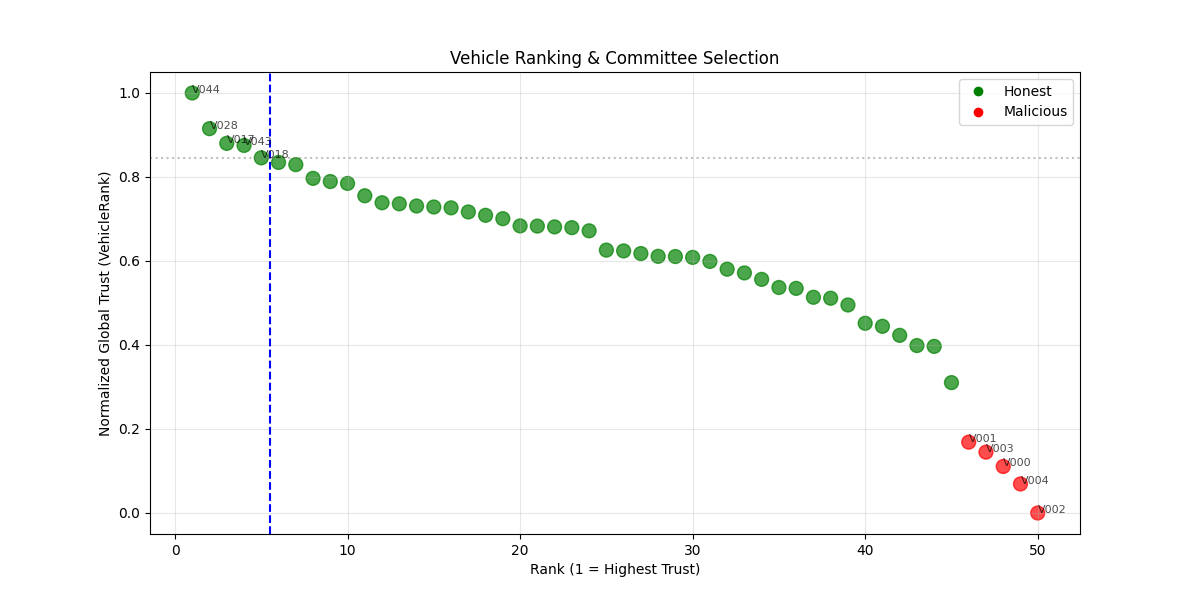
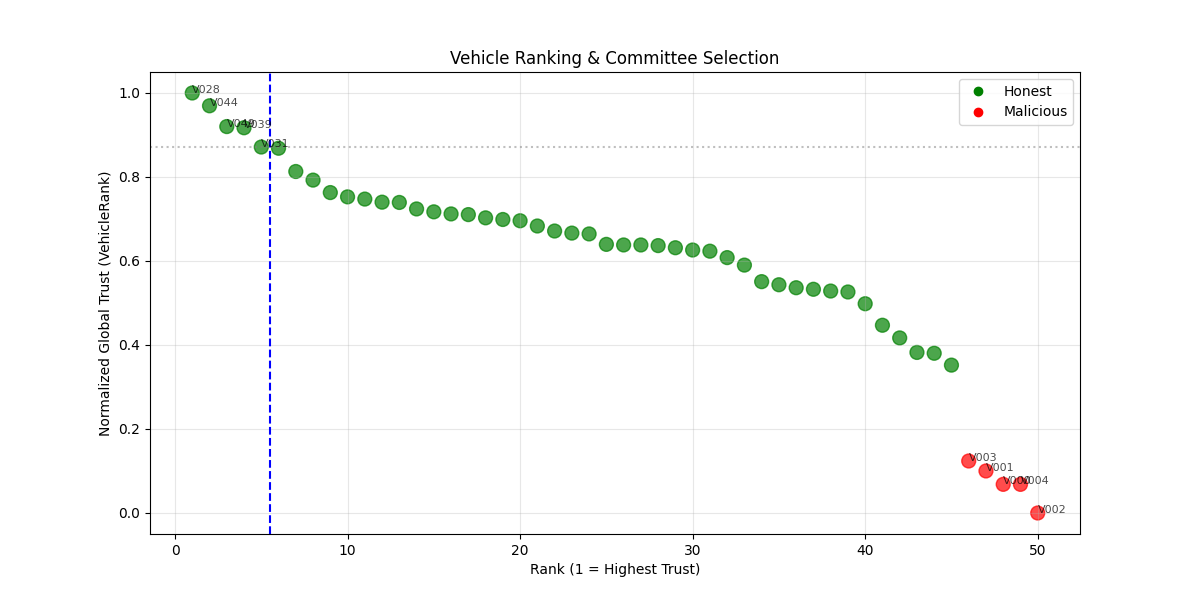
Update documentation and enhance adversary behavior descriptions; refine trust aggregation details and clarify reproducibility aspects in implementation.

diff --git a/docs/TECHNICAL_IMPLEMENTATION_DETAILS.md b/docs/TECHNICAL_IMPLEMENTATION_DETAILS.md
@@ -40,7 +40,7 @@ Key runtime objects (long-lived across the simulation run):
 ### 0.3. Determinism vs Randomness
 
 - The trust computations (Beta update, VehicleRank matrix math, weighted voting check) are deterministic given the same interaction outcomes.
-- Interaction outcomes are stochastic (Python `random`), and **there is no global seed set by default**. Reproducible runs require calling `random.seed(...)` (and `numpy.random.seed(...)` if extended) in the driver.
+- Interaction outcomes are stochastic (Python `random`). For the paper/plot pipeline, `experiments/benchmark.py` sets deterministic seeds (`random.seed(seed)` and `numpy.random.seed(seed)`, default `seed=42`). Ad-hoc runs that bypass the benchmark may remain unseeded unless the driver explicitly sets seeds.
 
 ### 0.4. Scope Notes (Intended Simplifications)
 
@@ -140,9 +140,13 @@ self.global_trust_vector = self.strategy.compute_global_trust(self, all_ids, rep
 ```
 
 **Strategies Implemented:**
-1.  **`ProposedStrategy` (ours):** Full VehicleRank (Power Iteration).
-2.  **`BTVRStrategy`:** Uses standard EigenTrust-like averaging or simpler Beta aggregation.
-3.  **`PeerTrustStrategy` (RTM/BSED/COBATS):** Implemented as simple column-wise averaging of reports (Baseline behavior).
+1.  **`ProposedStrategy` (ours):** Bayesian local trust + VehicleRank (PageRank-like power iteration).
+2.  **`PbftStrategy` (baseline):** Trust-agnostic; equal global trust for all nodes (no ranking).
+3.  **`LtPbftStrategy` (baseline):** Bayesian local trust + simple averaging (no graph propagation).
+4.  **`BtvrStrategy` (baseline):** Bayesian local trust + simple averaging.
+5.  **`CobatsStrategy` (baseline, representative/lite):** Bayesian local trust + confidence-weighted averaging (weight ∝ α+β).
+6.  **`BsedStrategy` (baseline, representative/lite):** correctness-rate reports + outlier/credibility down-weighting.
+7.  **`RtmStrategy` (baseline):** smoothed direct reputation updates + simple averaging.
 
 This ensures strict isolation between the "Proposed" math and baseline comparisons.
 
@@ -173,6 +177,7 @@ Defined in `trust/vehicle.py`, the system models three distinct adversary profil
 ### 3.2. Constant Malicious (DoS/Blackhole)
 *   **Behavior:** Cooperates with probability $P_{coop} = 0.20$.
 *   **Strategy:** Consistently drops packets or sends falsified data.
+*   **Additional behavior (misreporting):** Malicious nodes also perform “bad-mouthing” in outgoing trust reports (`Vehicle.get_trust_reports`), i.e., they slander peers by reporting very low trust values (float reports → `0.0`, tuple reports → `(1.0, 100.0)`).
 *   **Detection Signature:** Trust score rapidly converges to $\approx 0.2$.
 
 ### 3.3. Swing Attacker (On-Off / Oscillating)
@@ -180,10 +185,11 @@ Defined in `trust/vehicle.py`, the system models three distinct adversary profil
 *   **Implementation:**
     ```python
     cycle_length = 50
-    phase = (step_count // cycle_length) % 2
+    phase = ((step_count + swing_offset) // cycle_length) % 2
     probability = 0.99 if phase == 0 else 0.10
     ```
-*   **Detection Challenge:** Requires the sliding window or forgetting factor in the RSU aggregation to detect the sudden drop.
+    where `swing_offset` is a per-vehicle random integer so swing attackers do not flip simultaneously.
+*   **Detection Challenge:** In the current code there is **no RSU forgetting factor**; fast detection is supported via local sliding-window re-estimation (`Vehicle.get_windowed_local_trust`) and by the Proposed model’s graph aggregation.
 
 ### 3.4. Behavior Implementation: `Vehicle.perform_action(step_count) -> bool`
 
@@ -254,7 +260,7 @@ Where:
 Each DAG node is a `Block` with fields:
 
 - `id`: first 8 chars of a UUID4 (`str(uuid.uuid4())[:8]`). This is not a cryptographic hash.
-- `timestamp`: `time.time()` (UNIX epoch float).
+- `timestamp`: logical simulation `step` (integer) passed in during block creation for reproducibility (stored in the `timestamp` field).
 - `data`: a payload; typically a snapshot dict `{vehicle_id: global_trust_score}`.
 - `validator_id`: the committee member who created the block.
 - `parents`: list of parent block IDs.
@@ -305,17 +311,17 @@ The `experiments/run_experiment.py` script drives the system through discrete ti
 1.  **Initialization (`TrustModel.__init__`)**:
     *   Instantiates $N$ vehicles.
     *   Assigns behaviors (Honest/Malicious/Swing) based on percent distributions.
-    *   Initializes Adjacency Matrix $M$ with uniform priors.
+    *   Initializes implicit Bayesian priors via default interaction state (effectively $(\alpha,\beta)=(1,1)$ until evidence is observed).
 
 2.  **Interaction Loop (Per Step)**:
     *   **Selection:** Random pairs $(i, j)$ selected (or via SUMO proximity).
     *   **Action:** $j$ performs action (Success/Fail).
     *   **Update:** $i$ updates local $\alpha, \beta$ for $j$.
 
-3.  **Aggregation Phase (`simulation_step % 10 == 0`)**:
+3.  **Aggregation Phase (Per Step)**:
     *   RSU pulls all local trust data.
-    *   Runs **VehicleRank** to compute new Global Trust Vector.
-    *   RSU applies **Forgetting Factor** (decay) to old global scores to allow recovery/punishment.
+    *   Runs the active strategy to compute the new Global Trust Vector (VehicleRank for `PROPOSED`, averaging/weighting for baselines).
+    *   RSU synchronization (if enabled) is done via peer-vector averaging (`incorporate_peer_knowledge`).
     *   Vehicles are re-ranked.
 
 4.  **Consensus Phase**:
@@ -382,7 +388,7 @@ Vehicles store multiple representations depending on `model_type`:
 - `BSED` (behavior score):
     - `interactions[target_id] = (correct_count, total_count)`.
 - `RTM`:
-    - state stored in `rtm_trust[target_id]` as a scalar updated by `trust = (trust + outcome)/2`.
+    - state stored in `rtm_trust[target_id]` as a scalar updated via α-smoothing: `trust_new = α * trust_old + (1-α) * outcome` (α≈0.8 in the current strategy).
 
 In all cases, `interaction_logs[target_id]` stores the raw boolean outcomes over time for analysis and windowed re-estimation.
 
@@ -427,7 +433,7 @@ Simulation drivers now delegate block creation to `ConsensusManager`. This class
 
 ## 7. Experiment Driver (`experiments/run_experiment.py`) — Comparative Study Pipeline
 
-The experiment script contains both single-model simulation and a comparative multi-model evaluation pipeline.
+The primary user entry point is `experiments/run_experiment.py`, but the core loop used for graphs/statistics lives in `experiments/benchmark.py`.
 
 ### 7.1. Core Utilities: `calculate_statistics(...)`
 
@@ -440,7 +446,7 @@ This routine computes printed “Results & Statistics”:
 - **Consensus success rate:** approximated as `len(dags[0].blocks) / total_steps`.
 - **Convergence:** builds a rank matrix and checks when >90% of nodes have rank changes within 5% of N.
 
-### 7.2. Single Run Helper: `run_simulation(model_name, steps, num_vehicles, verbose)`
+### 7.2. Single Run Helper: `run_single_simulation(model_name, ...)`
 
 Per step:
 
@@ -450,12 +456,13 @@ Per step:
 4. Run consensus check:
      - `LT_PBFT`, `COBATS`: uses `check_consensus_simple` (unweighted).
      - Others: uses `check_consensus_weighted`.
-5. If consensus is reached, a block is appended to `dags[0]`:
-     - data payload currently `{}` in this helper.
+5. If consensus is reached, a block is appended to the manager-owned DAG with a trust snapshot payload.
 
-### 7.3. Comparative Study: `run_comparative_study()`
+**Reproducibility note:** `run_single_simulation` seeds `random` and `numpy` (default `seed=42`).
 
-- Models evaluated: `['BTVR', 'BSED', 'RTM', 'COBATS', 'LT_PBFT', 'PROPOSED']`.
+### 7.3. Comparative Study (Paper Suite): `run_paper_suite()`
+
+- Models evaluated: `['PBFT', 'BTVR', 'BSED', 'RTM', 'COBATS', 'LT_PBFT', 'PROPOSED']`.
 - Stores:
     - evolution data (per model) for trust evolution plots.
     - final normalized scores for detection plots.
@@ -565,7 +572,7 @@ This section documents current “as-coded” behavior that matters for future e
 - **No true PBFT message phases:** Weighted check approximates a commit rule but does not model prepare/commit rounds.
 - **RSU sync is averaging:** There is no adversarial RSU model or byzantine RSU handling.
 - **Tip set correctness is simplified:** DAG tips are tracked as a bounded list and do not enforce real ancestry-based tip definition.
-- **Random seed not fixed:** Results can vary across runs unless seeds are set.
+- **Seeding is pipeline-dependent:** The benchmark/paper pipeline sets seeds (default `seed=42`); custom ad-hoc drivers may remain stochastic unless they also seed.
 
 ---
 
@@ -590,8 +597,10 @@ This section traces the **actual** function-level call order and the data passed
 
 - **Non-SUMO experiments**
     - `experiments/run_experiment.py`
-        - `run_comparative_study()` (multi-model)
-        - `run_simulation(model_name, steps, num_vehicles, verbose)` (single-model helper)
+        - `run_paper_suite()` (multi-model paper graphs)
+        - `run_default_demo()` (single-model demo)
+    - `experiments/benchmark.py`
+        - `run_single_simulation(model_name, ...)` (core loop used for plots/statistics)
 
 - **SUMO mobility-driven run**
     - `experiments/run_sumo_experiment.py`
@@ -618,21 +627,21 @@ This section traces the **actual** function-level call order and the data passed
 - `DAG`
     - owns `blocks: Dict[str, Block]` and `tips: List[str]`
 
-### 13.3. Non-SUMO Sequence (Single Model): `run_simulation(...)`
+### 13.3. Non-SUMO Sequence (Single Model): `run_single_simulation(...)`
 
-This is the exact per-step order used in the helper routine inside `experiments/run_experiment.py`.
+This is the exact per-step order used in the benchmark loop in `experiments/benchmark.py`.
 
 #### 13.3.1. Sequence Diagram (Mermaid)
 
 ```mermaid
 sequenceDiagram
-        participant Driver as experiments/run_experiment.py
+    participant Driver as experiments/benchmark.py
         participant Sim as trust/simulator.py::Simulator
         participant TM as trust/trust_model.py::TrustModel
         participant V as trust/vehicle.py::Vehicle
         participant RSU as trust/rsu.py::RSU
-        participant Val as blockchain/validator.py
-        participant DAG as blockchain/dag.py::DAG
+    participant CM as blockchain/consensus_manager.py::ConsensusManager
+    participant DAG as blockchain/dag.py::DAG
 
         Driver->>Sim: Simulator(...)
         Sim->>TM: TrustModel.__init__(...)
@@ -653,11 +662,9 @@ sequenceDiagram
                 TM->>RSU: incorporate_peer_knowledge(peer_vector) (pairwise)
                 TM->>V: set global_trust_score; append trust_history
 
-                Driver->>TM: get_ranked_vehicles()
-                Driver->>Val: select_validators(ranked, top_n=5)
-                Driver->>Val: check_consensus_* (weighted or simple)
+                Driver->>CM: attempt_consensus(step=t)
                 alt consensus reached
-                        Driver->>DAG: add_block(data={}, validator_id=committee[0].id)
+                    CM->>DAG: add_block(data=trust_snapshot, validator_id=leader.id)
                 end
         end
 ```

diff --git a/docs/PROJECT_DOCUMENTATION.md b/docs/PROJECT_DOCUMENTATION.md
@@ -36,7 +36,7 @@ graph TD
         A -- Updates Local Trust (Alpha/Beta) --> DB[(Local Storage)]
     
         DB -- Reports Trust Scores --> RSU[Roadside Unit]
-        RSU -- Aggregates & Decays --> GT[Global Trust Score]
+        RSU -- Aggregates --> GT[Global Trust Score]
     
         GT -- Ranks Vehicles --> Rank[Reputation Ranking]
         Rank -- Selects Top N --> Val[Validators]
@@ -56,9 +56,9 @@ Instead of a simple "rating", we use probability.
     $$ T = \frac{\alpha}{\alpha + \beta} $$
     Example: 9 good, 1 bad $\rightarrow \alpha=10, \beta=2 \rightarrow T = 10/12 = 0.83$.
 
-#### B. The Forgetting Factor
+#### B. Recency Handling (Windowing vs Decay)
 
-Trust shouldn't be permanent. Old behavior is less relevant than new behavior. The **Roadside Unit (RSU)** applies a "forgetting factor" (e.g., 0.95) when aggregating scores. This means yesterday's reputation matters slightly less than today's.
+Trust shouldn't be permanent. In the current prototype codebase there is **no explicit RSU-side forgetting factor/decay** applied during global aggregation. Recency can be emphasized via (a) repeated recomputation each step from evolving local evidence and (b) optional sliding-window local trust (`Vehicle.get_windowed_local_trust`). A true exponential forgetting factor can be added later if needed for the paper.
 
 #### C. Validators & The DAG
 

diff --git a/docs/CODE_GUIDE.md b/docs/CODE_GUIDE.md
@@ -65,7 +65,7 @@ This repository acts as a simulation sandbox for the **VehicleRank** and **Trust
 * **Behaviors**:
   * `HONEST`: 99% cooperation.
   * `MALICIOUS`: 20% cooperation (Packet drop/Bad data).
-  * `SWING`: Alternates behavior every 50 steps to fool simple averaging models. VehicleRank detects this by analyzing the entire graphs structure rather than just history.
+  * `SWING`: Alternates behavior in 50-step cycles using a per-vehicle random phase offset (so attackers don’t flip in sync). The Proposed model’s VehicleRank aggregation helps damp oscillations relative to simple averaging baselines.
 
 ### C. `blockchain/validator.py`
 
